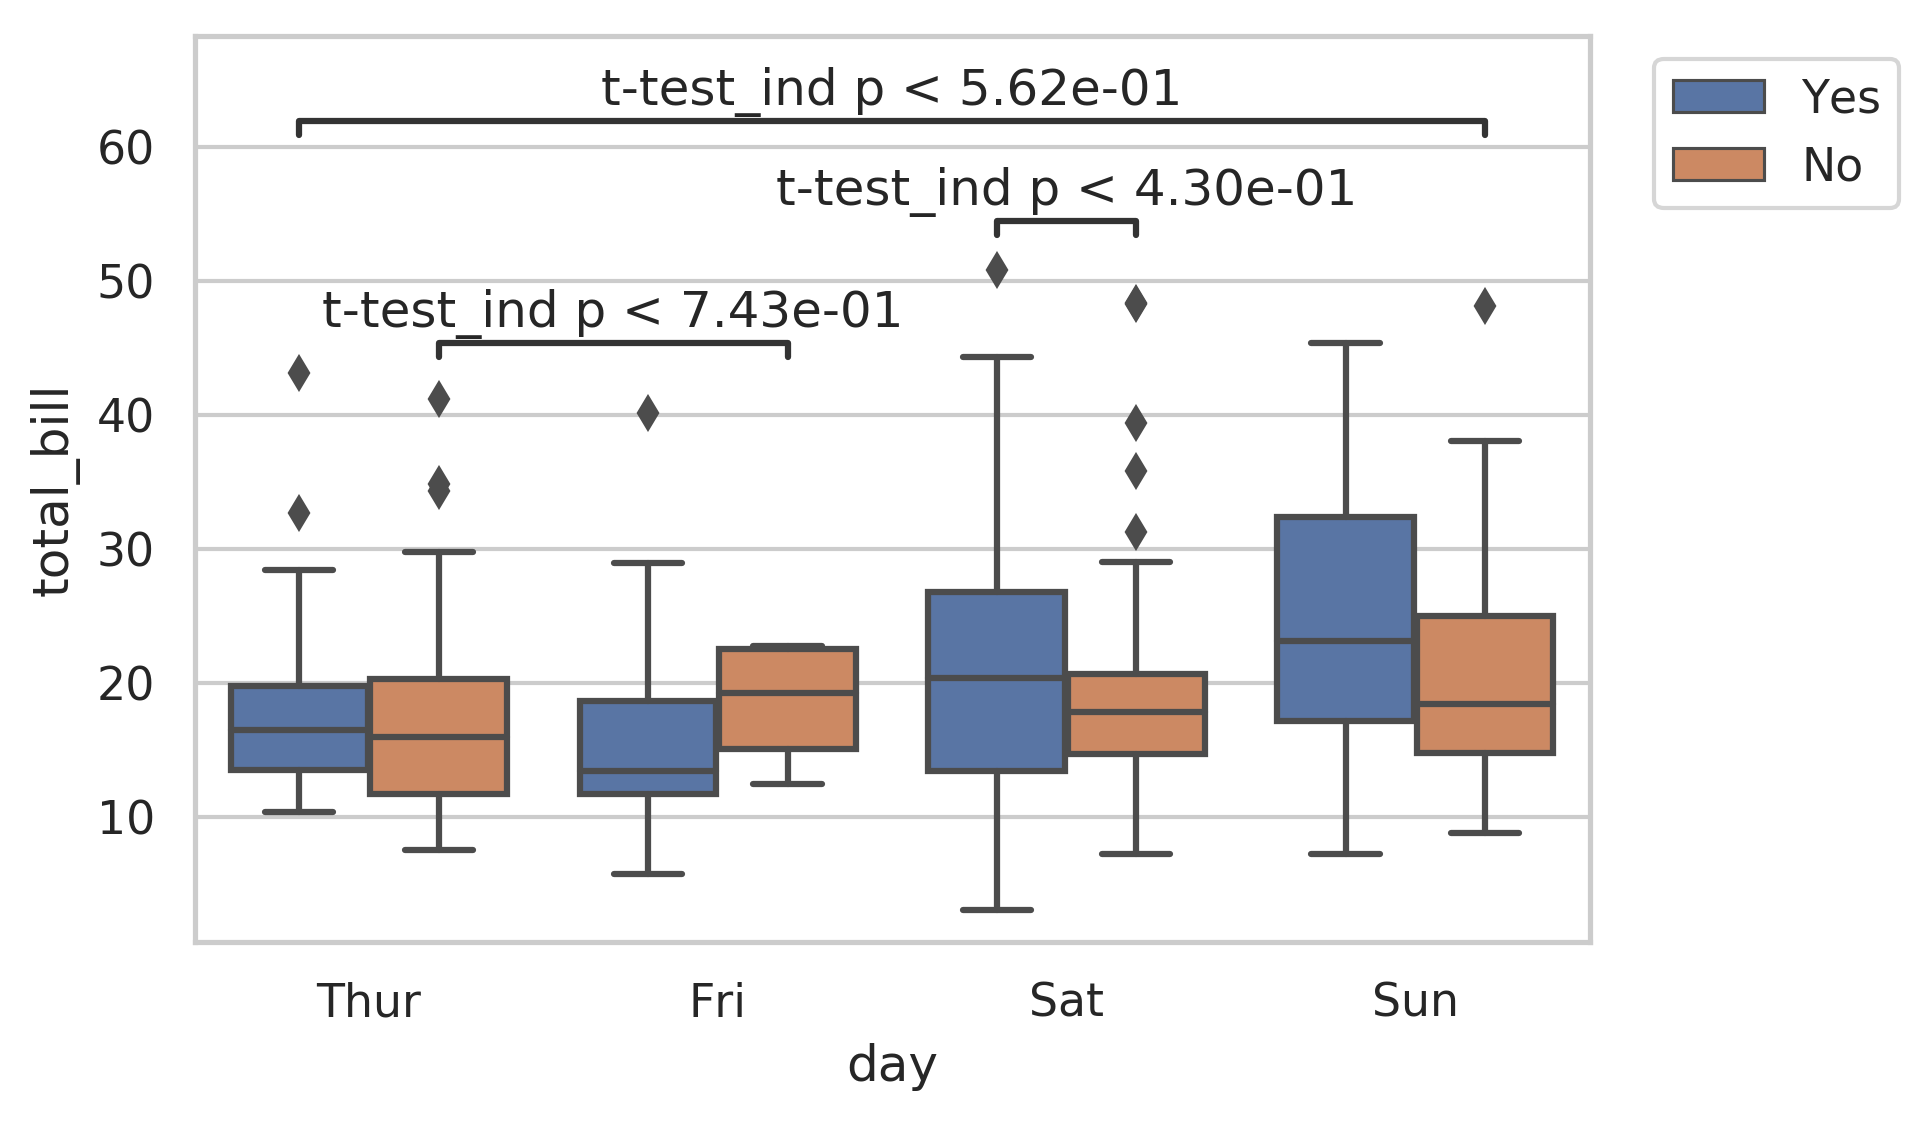
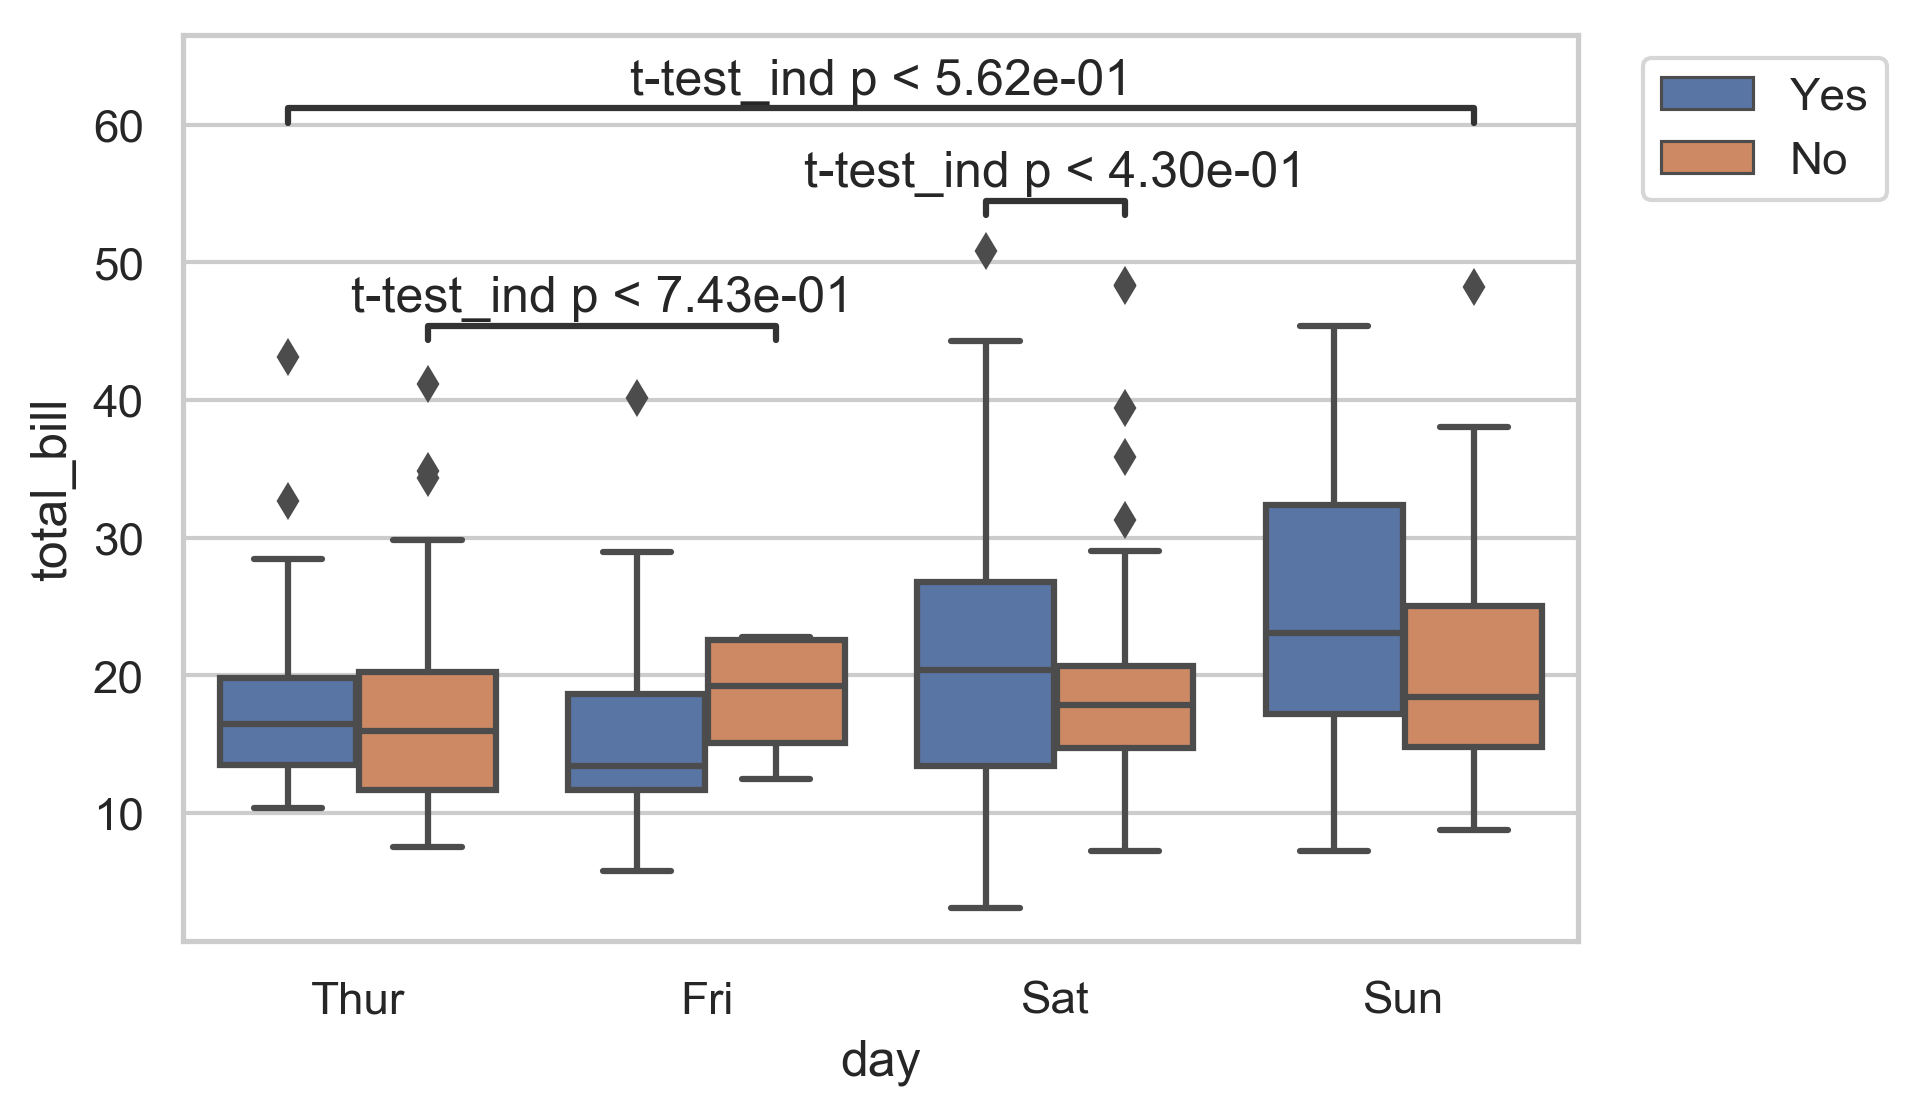
added option to NOT stack the annotations.

diff --git a/statannot/statannot.py b/statannot/statannot.py
@@ -58,7 +58,7 @@ def add_stat_annotation(ax,
                         test='Mann-Whitney', textFormat='star', loc='inside',
                         pvalueThresholds=[[1,"ns"], [0.05,"*"], [1e-2,"**"], [1e-3,"***"], [1e-4,"****"]],
                         useFixedOffset=False, lineOffsetToBox=None, lineOffset=None,
-                        lineHeight=0.02, textOffset=1,
+                        lineHeight=0.02, textOffset=1, stack=True,
                         color='0.2', linewidth=1.5, fontsize='medium', verbose=1):
     """
     User should use the same argument for the data, x, y, hue, order, hue_order as the seaborn boxplot function.
@@ -214,8 +214,11 @@ def add_stat_annotation(ax,
             elif loc == 'outside':
                 yRef = ylim[1]
 
-            if len(yStack) > 0:
-                yRef2 = max(yRef, max(yStack))
+            if stack:
+                if len(yStack) > 0:
+                    yRef2 = max(yRef, max(yStack))
+                else:
+                    yRef2 = yRef
             else:
                 yRef2 = yRef
 
